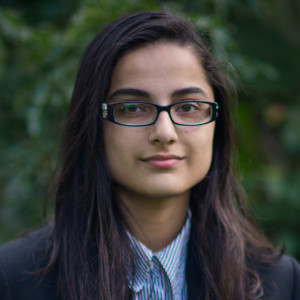
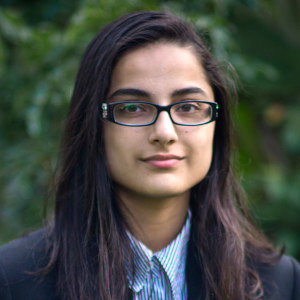
Touch up dark images, rewrite site templates
Removed 'fam,' 'ahlie,' and other unprofessional Scarberian slang from
placeholder text. Sara, Rabia, Veni, and Lillian's photos seemed to be a
little dark, so both brightness and contrast were increased on their
photos to match other photos better.

diff --git a/about.php b/about.php
@@ -29,7 +29,7 @@
 
   <div class="container">
 
-    <p> Sorry fam, ahlie but this page doesn't exist. Good luck next time. </p>
+    <p> Sorry, but this page doesn't exist. Good luck next time. </p>
 
   </div>
 

diff --git a/contact.php b/contact.php
@@ -29,7 +29,7 @@
 
   <div class="container">
 
-    <p> Sorry fam, ahlie but this page doesn't exist. Good luck next time. </p>
+    <p> Sorry, but this page doesn't exist. Good luck next time. </p>
 
   </div>
 

diff --git a/documents.php b/documents.php
@@ -29,7 +29,7 @@
 
   <div class="container">
 
-    <p> Sorry fam, ahlie but this page doesn't exist. Good luck next time. </p>
+    <p> Sorry, but this page doesn't exist. Good luck next time. </p>
 
   </div>
 

diff --git a/events.php b/events.php
@@ -29,7 +29,7 @@
 
   <div class="container">
 
-    <p> Sorry fam, ahlie but this page doesn't exist. Good luck next time. </p>
+    <p> Sorry, but this page doesn't exist. Good luck next time. </p>
 
   </div>
 

diff --git a/registration.php b/registration.php
@@ -29,7 +29,7 @@
 
   <div class="container">
 
-    <p> Sorry fam, ahlie but this page doesn't exist. Good luck next time. </p>
+    <p> Sorry, but this page doesn't exist. Good luck next time. </p>
 
   </div>
 
